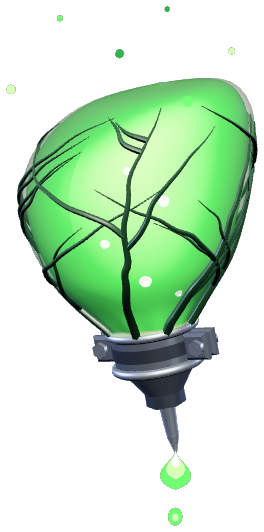
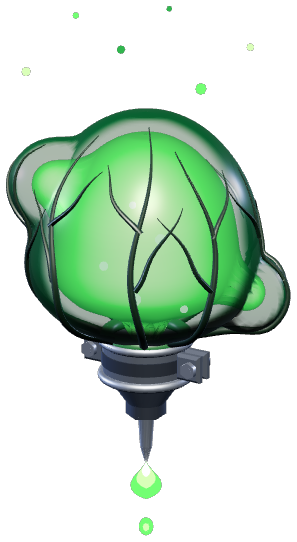
design: VENOM GLAND reworked to read as a gland, not a glowing leaf
A plump sac with two lobes budding off it, a dark, wet, semi-translucent
membrane with the venom glowing inside (dark at its edges, bright in its
middle), veins fanning up from the neck, on its two-screw steel collar
with the needle, a drop forming and one falling. Still on preview
(?cardart=items) with the other sixteen; docs/OPEN-QUESTIONS.md 1k says
so.

Claude-Session: https://claude.ai/code/session_0115DZYYhipQqSk6LHvQcEfz

diff --git a/design/cards/models/venom_gland.js b/design/cards/models/venom_gland.js
@@ -1,89 +1,95 @@
-// VENOM GLAND (Pack 1, toxic, Unrefined: +5% special attack): a translucent pear-shaped gland sac, lumpy, leaning, its tip curling over, its venom glowing green through the membrane (bright where it faces you,
-// deeper toward its sides, a few bubbles in it) and dark veins branching over it from its neck; the neck gathered into a steel collar of two halves, bolted at either side by a small clamp screw; below the
-// collar a short steel nozzle and a needle pointing down, a drop of venom forming at its tip and one falling; a few motes of venom rising off it. Unrefined: the simplest of the toxic items.
+// VENOM GLAND (Pack 1, toxic, Unrefined: +5% special attack): a plump, rounded gland sac, bottom-heavy (swelling out over its collar, a round dome on top) and budding two smaller lobes; its skin a wet,
+// deep-green, semi-translucent membrane with dark veins branching over it, and the venom glowing INSIDE it (a glow smaller than the skin, bright in its middle, so the sac's edges stay dark: fluid in a sac, not a
+// lamp), a few bubbles in it; its neck gathered into a steel collar of two halves, bolted at either side by a small clamp screw; below the collar a short steel nozzle and a needle pointing down, a fat drop of
+// venom forming at its tip and one falling; a few motes of venom rising off it. Unrefined: the simplest of the toxic items.
 (function () {
   const std = (hex, metal, rough, extra) => { const m = new T.MeshStandardMaterial(Object.assign({ color: 0xffffff, metalness: metal, roughness: rough }, extra || {})); m.color = STY.col(hex); m.envMapIntensity = 0.9; return m; };
-  const steelM = std('#a7b0bb', 0.9, 0.26), steelDk = std('#5d6570', 0.85, 0.32), screwM = std('#c3cbd6', 0.9, 0.22), veinM = std('#1d3d22', 0.1, 0.36), lipM = std('#5f8a4c', 0.05, 0.4);
-  const membraneM = new T.MeshStandardMaterial({ color: 0xffffff, vertexColors: true, transparent: true, depthWrite: false, metalness: 0, roughness: 0.3 }); membraneM.envMapIntensity = 0.55;
-  const fluidM = new T.MeshBasicMaterial({ vertexColors: true, toneMapped: false });
+  const steelM = std('#a7b0bb', 0.9, 0.26), steelDk = std('#5d6570', 0.85, 0.32), screwM = std('#c3cbd6', 0.9, 0.22), veinM = std('#12281a', 0.1, 0.32), lipM = std('#24552e', 0.05, 0.3);
+  const skinM = new T.MeshStandardMaterial({ color: 0xffffff, vertexColors: true, transparent: true, depthWrite: false, metalness: 0, roughness: 0.26 }); skinM.envMapIntensity = 0.6;   // the membrane (rgba per vertex)
+  const fluidM = new T.MeshBasicMaterial({ vertexColors: true, toneMapped: false });   // the venom's glow
   const tox = STY.glow('#66ff66', 1.3), toxHot = STY.glow('#b6ff9a', 1.5), toxDim = STY.glow('#2fae4a', 1.1), toxCore = STY.glow('#eaffd8', 1.6);
   const at = (m, x, y, z) => { m.position.set(x, y, z); return m; };
   const V = (x, y, z) => new T.Vector3(x, y, z);
-  const AZ = 0.55, EL = 0.32, CAM = V(Math.cos(EL) * Math.sin(AZ), Math.sin(EL), Math.cos(EL) * Math.cos(AZ));   // toward the hero camera (for the membrane's sheen and the venom's glow)
-  // THE SAC: a pear on its narrow end (radius, height), its neck at SY, in the collar; lumpy, its tip curling over to one side, and gathered in folds where the collar pinches it
-  const SY = 0.02, H = 0.615;
-  const PROF = [[0.07, 0], [0.085, 0.03], [0.14, 0.1], [0.225, 0.2], [0.275, 0.32], [0.285, 0.42], [0.255, 0.51], [0.17, 0.585], [0.0, H]];
-  const PTS = new T.CatmullRomCurve3(PROF.map(([r, y]) => V(r, y, 0)), false, 'centripetal').getPoints(64).map(p => new T.Vector2(Math.max(0.0005, p.x), p.y));
+  const AZ = 0.55, EL = 0.32, CAM = V(Math.cos(EL) * Math.sin(AZ), Math.sin(EL), Math.cos(EL) * Math.cos(AZ));   // toward the hero camera (for the membrane's rim and the venom's glow)
+  const YC = 0.025;   // the collar's middle
+  // THE SAC: a lathe profile (radius, height): a short neck in the collar, the underside swelling out over it, widest low, a round dome on top ...
+  const PROF = [[0.074, -0.01], [0.076, 0.05], [0.086, 0.078], [0.14, 0.1], [0.205, 0.135], [0.25, 0.185], [0.265, 0.245], [0.258, 0.32], [0.238, 0.4], [0.195, 0.475], [0.13, 0.54], [0.06, 0.575], [0, 0.582]];
+  const PTS = new T.CatmullRomCurve3(PROF.map(([r, y]) => V(r, y, 0)), false, 'centripetal').getPoints(80).map(p => new T.Vector2(Math.max(0.0005, p.x), p.y));
+  const Y0 = PROF[0][1], Y1 = PROF[PROF.length - 1][1];
   const rAt = y => { for (let i = 1; i < PTS.length; i++) if (PTS[i].y >= y) { const t = (y - PTS[i - 1].y) / Math.max(1e-6, PTS[i].y - PTS[i - 1].y); return PTS[i - 1].x + (PTS[i].x - PTS[i - 1].x) * t; } return 0; };
-  const shape = (a, s) => { const w = Math.pow(Math.max(0, 1 - s / 0.22), 2); return (1 + 0.07 * Math.sin(2 * a + 0.9) * Math.sin(PI * s) + 0.035 * Math.sin(3 * a - 2 * s * PI) * s) * (1 + 0.09 * w * Math.sin(11 * a)); };
-  const place = (r, a, y) => { const s = y / H, tip = Math.pow(Math.max(0, (s - 0.6) / 0.4), 2); return V(Math.sin(a) * r + 0.06 * s * s + 0.07 * tip, y + SY - 0.02 * tip, Math.cos(a) * r * 0.9 - 0.02 * s * s); };
-  function sac(k) {
-    const geo = new T.LatheGeometry(PTS.map(p => new T.Vector2(Math.max(0.0005, p.x * k), p.y)), 96), p = geo.attributes.position;
-    for (let i = 0; i < p.count; i++) { const x = p.getX(i), y = p.getY(i), z = p.getZ(i), a = Math.atan2(x, z), q = place(Math.hypot(x, z) * shape(a, y / H), a, y); p.setXYZ(i, q.x, q.y, q.z); }
-    geo.computeVertexNormals(); return geo;
+  // ... a little lumpy, and gathered in folds where it leaves the collar
+  const shape = (a, y) => { const s = (y - Y0) / (Y1 - Y0), w = y < 0.07 ? 0 : Math.pow(Math.max(0, 1 - (y - 0.07) / 0.09), 2); return (1 + 0.035 * Math.sin(2 * a + 0.9) * Math.sin(PI * s)) * (1 + 0.07 * w * Math.sin(11 * a)); };
+  // ... and two smaller lobes budding off it: along each ray from the sac's middle C, the farther of the body and each lobe, blended smoothly (a soft crease where they meet)
+  const C = V(0, 0.3, 0), LOBES = [[V(-0.17, 0.42, 0.1), 0.1], [V(0.2, 0.18, -0.1), 0.09]], KS = 55;
+  function bud(P) {
+    const d = P.clone().sub(C), rm = d.length(); d.normalize(); let acc = Math.exp(KS * rm);
+    for (const [L, rho] of LOBES) { const o = L.clone().sub(C), b = d.dot(o), disc = b * b - (o.lengthSq() - rho * rho); if (disc > 0 && b + Math.sqrt(disc) > 0) acc += Math.exp(KS * (b + Math.sqrt(disc))); }
+    return C.clone().addScaledVector(d, Math.log(acc) / KS);
   }
-  const onSac = (y, a, out) => place(rAt(y) * shape(a, y / H) + (out || 0), a, y);   // a point on (or off) the sac at height y (0..H) and azimuth a (0 = front, toward +x)
-  const LEAN = 0.22, CAML = CAM.clone().applyAxisAngle(V(0, 0, 1), -LEAN);   // (the gland is built upright, then leant: the camera as the upright gland sees it)
-  const facing = (n, i) => n.getX(i) * CAML.x + n.getY(i) * CAML.y + n.getZ(i) * CAML.z;
+  // the sac's surface (the lathe's seam at the back), or, `inset` in from it along its normals, the glow inside it
+  function sacGeo(inset) {
+    const geo = new T.LatheGeometry(PTS, 120, PI), p = geo.attributes.position;
+    for (let i = 0; i < p.count; i++) { const x = p.getX(i), y = p.getY(i), z = p.getZ(i), sh = shape(Math.atan2(x, z), y), q = bud(V(x * sh, y, z * sh)); p.setXYZ(i, q.x, q.y, q.z); }
+    geo.computeVertexNormals();
+    if (inset) { const n = geo.attributes.normal; for (let i = 0; i < p.count; i++) p.setXYZ(i, p.getX(i) - n.getX(i) * inset, p.getY(i) - n.getY(i) * inset, p.getZ(i) - n.getZ(i) * inset); geo.computeVertexNormals(); }
+    return geo;
+  }
+  // a point on (or off, by `out`: less than 0 is in) the skin at height y and azimuth a (0 = front, toward +x)
+  const skinPt = (y, a, out) => { const r = rAt(y) * shape(a, y), p = bud(V(Math.sin(a) * r, y, Math.cos(a) * r)); return p.addScaledVector(p.clone().sub(C).normalize(), out || 0); };
+  const facing = (n, i) => n.getX(i) * CAM.x + n.getY(i) * CAM.y + n.getZ(i) * CAM.z;
   // a vein: a tapered tube along points, thick at its root
   function vein(pts, r) {
     const curve = new T.CatmullRomCurve3(pts), TS = 40, RS = 6, geo = new T.TubeGeometry(curve, TS, r, RS, false), p = geo.attributes.position, c = V(0, 0, 0), v = V(0, 0, 0);
-    for (let i = 0; i <= TS; i++) { c.set(0, 0, 0); for (let j = 0; j < RS; j++) c.add(v.fromBufferAttribute(p, i * (RS + 1) + j)); c.multiplyScalar(1 / RS); const k = 1 - 0.92 * Math.pow(i / TS, 1.3);
+    for (let i = 0; i <= TS; i++) { c.set(0, 0, 0); for (let j = 0; j < RS; j++) c.add(v.fromBufferAttribute(p, i * (RS + 1) + j)); c.multiplyScalar(1 / RS); const k = 1 - 0.9 * Math.pow(i / TS, 1.3);
       for (let j = 0; j <= RS; j++) { const n = i * (RS + 1) + j; v.fromBufferAttribute(p, n).sub(c).multiplyScalar(k).add(c); p.setXYZ(n, v.x, v.y, v.z); } }
     geo.computeVertexNormals(); return new T.Mesh(geo, veinM);
   }
 
   ITEMS.venom_gland = { exposure: 1.0, az: AZ, el: EL, build() {
-    const g = G(), S = G(); g.add(S); S.rotation.z = LEAN;   // the gland leans: its top to the left, its needle down to the right
-    // the venom: bright where it faces you, a deeper green toward its sides
-    const fg = sac(0.95), fp = fg.attributes.position, fn = fg.attributes.normal, fc = new Float32Array(fp.count * 3), c = new T.Color();
-    const DIM = STY.col('#145c29'), MID = STY.col('#4fe85a').multiplyScalar(1.1), BRIGHT = STY.col('#c8ffb0').multiplyScalar(1.25);
-    for (let i = 0; i < fp.count; i++) { const t = Math.pow(Math.max(0, facing(fn, i)), 1.3); if (t < 0.65) c.copy(DIM).lerp(MID, t / 0.65); else c.copy(MID).lerp(BRIGHT, (t - 0.65) / 0.35); fc.set([c.r, c.g, c.b], i * 3); }
-    fg.setAttribute('color', new T.BufferAttribute(fc, 3)); S.add(new T.Mesh(fg, fluidM));
-    // the membrane: clear where it faces you, cloudier toward its rim
-    const mg = sac(1), mn = mg.attributes.normal, mc = new Float32Array(mn.count * 4), CLEAR = STY.col('#a6e690'), SKIN = STY.col('#2f7d30');
-    for (let i = 0; i < mn.count; i++) { const e = Math.pow(1 - Math.abs(facing(mn, i)), 2); c.copy(CLEAR).lerp(SKIN, Math.min(1, e * 1.4)); mc.set([c.r, c.g, c.b, 0.08 + 0.66 * Math.pow(e, 0.9)], i * 4); }
-    mg.setAttribute('color', new T.BufferAttribute(mc, 4)); S.add(new T.Mesh(mg, membraneM));
-    // bubbles in the venom (just under the membrane, on the side toward you)
-    for (const [y, a, r] of [[0.2, 0.55, 0.015], [0.3, 0.25, 0.011], [0.37, 0.75, 0.013], [0.45, 0.45, 0.009], [0.15, 0.95, 0.009]]) S.add(at(sphere(r, toxCore, 10), ...onSac(y, a, -0.05 * rAt(y) - r * 0.2).toArray()));
-    // the veins: up from the neck over the sac, branching as they climb, thinning out
-    let seed = 11; const rnd = () => (seed = (seed * 16807) % 2147483647) / 2147483647;
-    const grow = (y, a, len, drift, r, depth) => {
-      const pts = [onSac(y, a, 0.002)], n = Math.max(3, Math.round(len / 0.03));
-      for (let i = 1; i <= n && y < H - 0.06; i++) {
-        y += 0.028 * (0.8 + 0.4 * rnd()); a += drift * (0.6 + 0.8 * rnd()) / Math.max(0.08, rAt(y)) * 0.02 + (rnd() - 0.5) * 0.05; pts.push(onSac(y, a, 0.002));
-        if (depth < 1 && i > 1 && i < n - 1 && rnd() < 0.3) grow(y, a, len * 0.45, (rnd() < 0.5 ? -1 : 1) * (1.4 + rnd()), r * 0.62, depth + 1);
-      }
-      if (pts.length > 2) S.add(vein(pts, r));
-    };
-    for (const [a, drift, len] of [[-0.55, -0.6, 0.5], [0.18, 0.3, 0.55], [0.85, 0.7, 0.52], [1.6, 0.4, 0.45], [-1.3, -0.5, 0.45], [2.6, 0.5, 0.45], [-2.3, -0.4, 0.4]]) grow(0.05, a, len, drift, 0.011, 0);
+    const g = G(), c = new T.Color();
+    // THE VENOM: a glow inside the skin, a skin's thickness in from it: bright in the middle, where it faces you, a deep green toward its edges
+    const SKIN = 0.05, fg = sacGeo(SKIN), fn = fg.attributes.normal, fc = new Float32Array(fn.count * 3);
+    const DIM = STY.col('#1f8a3a'), MID = STY.col('#55f060').multiplyScalar(1.15), BRIGHT = STY.col('#d8ffc4').multiplyScalar(1.35);
+    for (let i = 0; i < fn.count; i++) { const t = Math.pow(Math.max(0, facing(fn, i)), 1.3); if (t < 0.6) c.copy(DIM).lerp(MID, t / 0.6); else c.copy(MID).lerp(BRIGHT, (t - 0.6) / 0.4); fc.set([c.r, c.g, c.b], i * 3); }
+    fg.setAttribute('color', new T.BufferAttribute(fc, 3)); g.add(new T.Mesh(fg, fluidM));
+    // bubbles in it, on the side toward you
+    for (const [y, a, r] of [[0.22, 0.45, 0.014], [0.3, 0.15, 0.01], [0.37, 0.7, 0.012], [0.45, 0.4, 0.008], [0.18, 0.95, 0.009]]) g.add(at(sphere(r, toxCore, 10), ...skinPt(y, a, -SKIN + r * 0.3).toArray()));
+    // THE SKIN: a deep-green membrane, wet (glossy): thin and clear enough over the glow to let it through, a dense dark green past the glow's edge, toward its rim
+    const mg = sacGeo(0), mn = mg.attributes.normal, mc = new Float32Array(mn.count * 4), MIDSKIN = STY.col('#2b6a35'), RIMSKIN = STY.col('#0f3d1b');
+    for (let i = 0; i < mn.count; i++) { const f = Math.abs(facing(mn, i)), e = Math.min(1, Math.max(0, (0.64 - f) / 0.2)), k = e * e * (3 - 2 * e); c.copy(MIDSKIN).lerp(RIMSKIN, k); mc.set([c.r, c.g, c.b, 0.38 + 0.58 * k], i * 4); }
+    mg.setAttribute('color', new T.BufferAttribute(mc, 4)); g.add(new T.Mesh(mg, skinM));
+    // the veins: fanning up from the neck over the sac and its lobes, each forking once or twice, thinning out (none crossing)
+    const run = (y0, y1, a0, a1, wig, r) => { const pts = []; for (let i = 0; i <= 12; i++) { const t = i / 12; pts.push(skinPt(y0 + (y1 - y0) * t, a0 + (a1 - a0) * t + wig * Math.sin(t * 7 + a0 * 3), 0.002)); } g.add(vein(pts, r)); };
+    for (const [a0, len, side] of [[-0.95, 0.4, 1], [-0.25, 0.46, -1], [0.45, 0.48, 1], [1.15, 0.44, -1], [1.85, 0.38, 1], [2.7, 0.36, -1], [-1.9, 0.36, 1]]) {
+      const a1 = a0 + 0.12 * side, y1 = 0.085 + len; run(0.085, y1, a0, a1, 0.07, 0.0105);
+      for (const [t, dir, bl] of [[0.38, side, 0.16], [0.62, -side, 0.12]]) { const ya = 0.085 + len * t, aa = a0 + (a1 - a0) * t + 0.07 * Math.sin(t * 7 + a0 * 3); run(ya, Math.min(Y1 - 0.06, ya + bl), aa, aa + dir * 0.42, 0.03, 0.0062); }
+    }
     // the membrane gathered into the collar: a fleshy lip over its top
-    const lip = torus(0.09, 0.016, lipM, 40); lip.rotation.x = PI / 2; S.add(at(lip, 0, SY + 0.05, 0));
+    const lip = torus(0.088, 0.016, lipM, 40); lip.rotation.x = PI / 2; g.add(at(lip, 0, YC + 0.05, 0));
     // THE COLLAR: a steel band round the neck in two halves, an ear at either side bolted through by a small clamp screw
-    S.add(at(cyl(0.098, 0.098, 0.085, steelM, 36), 0, SY + 0.005, 0));
-    for (const y of [SY + 0.047, SY - 0.037]) { const b = torus(0.098, 0.011, steelM, 36); b.rotation.x = PI / 2; S.add(at(b, 0, y, 0)); }
-    S.add(at(cyl(0.101, 0.101, 0.03, steelDk, 36), 0, SY + 0.005, 0));
+    g.add(at(cyl(0.098, 0.098, 0.085, steelM, 36), 0, YC, 0));
+    for (const y of [YC + 0.042, YC - 0.042]) { const b = torus(0.098, 0.011, steelM, 36); b.rotation.x = PI / 2; g.add(at(b, 0, y, 0)); }
+    g.add(at(cyl(0.101, 0.101, 0.03, steelDk, 36), 0, YC, 0));
     for (const s of [-1, 1]) {
-      for (const z of [-0.016, 0.016]) S.add(at(cbox(0.06, 0.062, 0.024, 0.007, steelM), s * 0.122, SY + 0.005, z));
-      const sc = cyl(0.009, 0.009, 0.08, screwM, 10); sc.rotation.x = PI / 2; S.add(at(sc, s * 0.13, SY + 0.005, 0));
-      const hd = cyl(0.019, 0.019, 0.013, screwM, 6); hd.rotation.x = PI / 2; S.add(at(hd, s * 0.13, SY + 0.005, 0.034));
-      const nut = cyl(0.016, 0.016, 0.012, steelDk, 6); nut.rotation.x = PI / 2; S.add(at(nut, s * 0.13, SY + 0.005, -0.033));
+      for (const z of [-0.016, 0.016]) g.add(at(cbox(0.06, 0.062, 0.024, 0.007, steelM), s * 0.122, YC, z));
+      const sc = cyl(0.009, 0.009, 0.08, screwM, 10); sc.rotation.x = PI / 2; g.add(at(sc, s * 0.13, YC, 0));
+      const hd = cyl(0.019, 0.019, 0.013, screwM, 6); hd.rotation.x = PI / 2; g.add(at(hd, s * 0.13, YC, 0.034));
+      const nut = cyl(0.016, 0.016, 0.012, steelDk, 6); nut.rotation.x = PI / 2; g.add(at(nut, s * 0.13, YC, -0.033));
     }
     // THE NOZZLE: a steel cone off the collar, a hex nut, and the needle
-    S.add(at(cyl(0.085, 0.045, 0.06, steelM, 32), 0, SY - 0.075, 0));
-    S.add(at(cyl(0.046, 0.046, 0.032, steelDk, 6), 0, SY - 0.12, 0));
-    S.add(at(cyl(0.019, 0.014, 0.08, steelM, 16), 0, SY - 0.175, 0));
-    S.add(at(cyl(0.014, 0.003, 0.04, screwM, 16), 0, SY - 0.235, 0));
-    // the drop forming at its tip: a fat teardrop hanging straight down off the point, its core nudged toward you
-    g.updateMatrixWorld(true); const tip = V(0, SY - 0.25, 0).applyMatrix4(S.matrixWorld);
+    g.add(at(cyl(0.085, 0.045, 0.06, steelM, 32), 0, YC - 0.08, 0));
+    g.add(at(cyl(0.046, 0.046, 0.032, steelDk, 6), 0, YC - 0.125, 0));
+    g.add(at(cyl(0.019, 0.014, 0.08, steelM, 16), 0, YC - 0.18, 0));
+    g.add(at(cyl(0.014, 0.003, 0.04, screwM, 16), 0, YC - 0.24, 0));
+    // the drop forming at its tip: a fat teardrop hanging off the point, its core nudged toward you; and one already falling below it
+    const tip = V(0, YC - 0.255, 0);
     const drop = (r, h, mat, push) => { const pts = []; for (let i = 0; i <= 20; i++) { const t = i / 20; pts.push(new T.Vector2(Math.max(0.0005, r * Math.sin(PI * Math.pow(t, 1.6))), -h * t)); }
       const m = new T.Mesh(new T.LatheGeometry(pts, 24), mat); m.position.copy(tip).addScaledVector(CAM, push); return m; };
     g.add(drop(0.036, 0.1, tox, 0)); g.add(drop(0.022, 0.072, toxHot, 0.014)); g.add(drop(0.01, 0.042, toxCore, 0.024));
-    // and one already falling below it
     const fall = (r, mat, push) => { const m = sphere(r, mat, 16); m.scale.set(1, 1.25, 1); return at(m, tip.x + CAM.x * push, tip.y - 0.17 + CAM.y * push, tip.z + CAM.z * push); };
     g.add(fall(0.017, tox, 0)); g.add(fall(0.009, toxHot, 0.01));
     // MOTES of venom rising off the sac
-    for (const [x, y, z, r, k] of [[0.12, 0.62, 0.08, 0.013, 1], [-0.32, 0.6, 0.1, 0.011, 2], [-0.06, 0.7, 0.06, 0.01, 0], [0.18, 0.72, 0.0, 0.008, 2], [-0.22, 0.76, 0.05, 0.007, 1], [0.04, 0.8, 0.03, 0.006, 0]])
+    for (const [x, y, z, r, k] of [[0.17, 0.66, 0.06, 0.012, 1], [-0.24, 0.66, 0.1, 0.01, 2], [-0.03, 0.72, 0.05, 0.009, 0], [0.24, 0.74, -0.02, 0.008, 2], [-0.15, 0.78, 0.04, 0.007, 1], [0.07, 0.81, 0.02, 0.006, 0]])
       g.add(at(sphere(r, k === 2 ? toxHot : k === 1 ? tox : toxDim, 8), x, y, z));
     return { g };
   } };

diff --git a/docs/OPEN-QUESTIONS.md b/docs/OPEN-QUESTIONS.md
@@ -172,7 +172,7 @@ Still open, for the owner (playtest): the cards' numbers once played; whether a 
 Asked: "we'll design the 3D items for the next 17 pack 1 cards right now". All seventeen are modelled in EMBER PLATING's look and baked; they show only with `?cardart=items` until you approve each (docs/ART-PROCESS.md), and everyone else still sees the crystal.
 
 **For your eye, item by item** (yes to all, yes to some, or notes on any):
-- **VENOM GLAND** was the weakest at first (it read as a glowing leaf or bulb); it is being reworked into a rounder sac with a darker skin and the venom glowing inside.
+- **VENOM GLAND** was the weakest at first (it read as a glowing leaf or bulb); it was reworked into a plump sac with two budding lobes, a dark wet membrane and the venom glowing inside it.
 - **REPULSOR PULSE**: at the mini card's size its shockwave rings dominate, so it reads as an emitter more than a palm piece.
 - **IMPACT STUDS** is a closed knuckle band (it reads as a studded bracelet), not an open strap: a closed loop keeps the picture upright.
 - **FROST LINING**: the quilted satin catches the light royal blue rather than dark navy.
